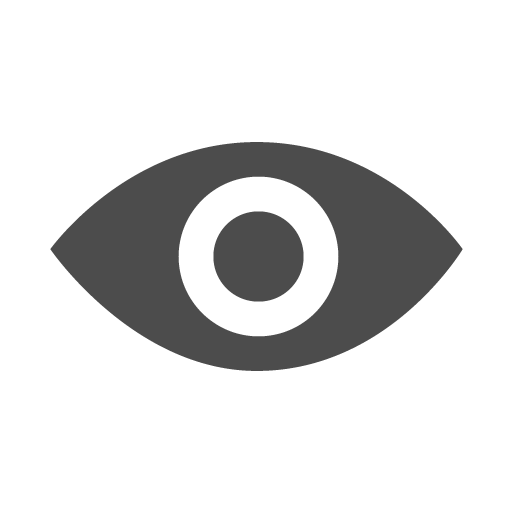
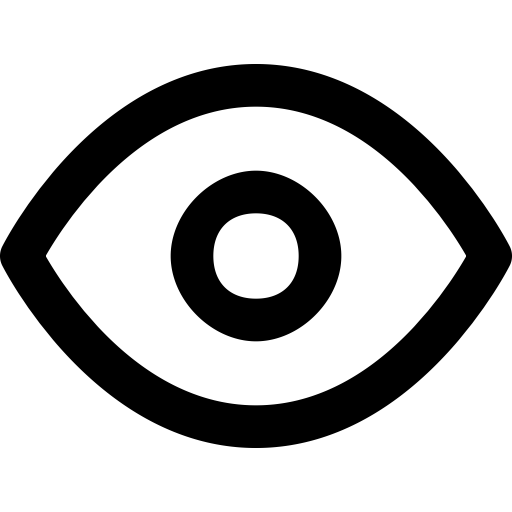
Imagenes de ocultar y mostrar el password e inicio popup delete

diff --git a/src/controllers/posts.controller.js b/src/controllers/posts.controller.js
@@ -3,6 +3,7 @@ import collectionPost from "../views/postcollection.html";
 import { auth, database, timeStamp, arrayUnionFunction, arrayRemoveFunction } from "../init-firebase.js";
 import heartlike from "../img/heartlike.png";
 import heart from "../img/heart.png";
+import { pages } from "./pages.controller.js"
 
 export default () => {
 
@@ -14,6 +15,9 @@ export default () => {
     const username = divElement.querySelector("#userSessionName");
     console.log(username);
     username.textContent = localStorage.getItem("username").toString();
+
+
+    divElement.appendChild(pages.popupdelete());
 
     const logout = divElement.querySelector("#btnLogout");
     logout.addEventListener("click", (event) => {
@@ -28,9 +32,13 @@ export default () => {
     postForm.addEventListener("submit", async event => {
         event.preventDefault();
         const postText = postForm["textPost"];
-        await createPost(postText.value);
-        postForm.reset();
-        postForm.focus();
+        if (postText.value === "") {
+            alert("Your post is empty");
+        } else {
+            await createPost(postText.value);
+            postForm.reset();
+            postForm.focus();
+        }
     });
 
 
@@ -72,6 +80,8 @@ const printPosts = (listPost, querySnapshot) => {
         const deleteButtons = divCollection.querySelectorAll(".deletePost");
         const deleteButtonId = divCollection.querySelector("#deletePostButton")
         const likebtn = divCollection.querySelector("#like");
+        const idPopUp = document.querySelector("#deleteIdPopup");
+        console.log(idPopUp);
         if (dataElement.usersLike.indexOf(userSessionNow) === -1) {
             likebtn.src = heart;
         } else {
@@ -81,6 +91,7 @@ const printPosts = (listPost, querySnapshot) => {
             deleteButtonId.style.display = "block";
             deleteButtons.forEach(button => {
                 button.addEventListener("click", async(event) => {
+                    idPopUp.classList.add("active");
                     await deletePost(event.target.parentNode.parentNode.parentNode.id);
                 })
             })

diff --git a/src/main.css b/src/main.css
@@ -296,8 +296,10 @@
             }
             
             #eyePassword {
-                width: 30px;
+                width: 15px;
                 opacity: 50%;
+                height: 20px;
+                align-self: center;
             }
             
             .deletePost {
@@ -401,6 +403,38 @@
             
             #usernamePost {
                 font-weight: 600;
+            }
+            
+            .divViewPopUpDelete {
+                background: rgba(0, 0, 0, 0.3);
+                position: fixed;
+                top: 0;
+                bottom: 0;
+                left: 0;
+                right: 0;
+                display: flex;
+                align-items: center;
+                justify-content: center;
+                visibility: hidden;
+            }
+            
+            .divViewPopUpDelete.active {
+                visibility: visible;
+            }
+            
+            .deleteAlert {
+                background: white;
+                box-shadow: 0px 0px 5px 0px rgba(0, 0, 0, 0.3);
+                border-radius: 5px;
+                font-family: 'Lora', Serif;
+                padding: 20px;
+                text-align: center;
+                width: 200px;
+            }
+            
+            .deleteAlert.btnCancel {
+                display: block;
+                text-align: right;
             }
             
             @media screen and (min-width:800px) {

diff --git a/src/controllers/login.controller.js b/src/controllers/login.controller.js
@@ -4,6 +4,7 @@ import faceImg from "../img/facebook.png";
 import googleImg from "../img/google.png";
 import arrowBack from "../img/arrow-left.png";
 import eyeLogin from "../img/eyeLogin.png";
+import hideLogin from "../img/hideLogin.png"
 import { pages } from "./pages.controller.js";
 import { auth, firebase } from "../init-firebase.js";
 
@@ -32,7 +33,8 @@ export default () => {
     imgBackBotton.src = arrowBack;
 
     const imgEye = divElement.querySelector("#eyePassword");
-    imgEye.src = eyeLogin;
+    imgEye.src = hideLogin;
+
 
     // Login Event ------------------------------------------------------>
 
@@ -112,7 +114,10 @@ export default () => {
         const idPassword = divElement.querySelector("#password");
         if (idPassword.type === "password") {
             idPassword.type = "text"
+            imgEye.src = eyeLogin;
+
         } else {
+            imgEye.src = hideLogin;
             idPassword.type = "password"
         }
     })

diff --git a/src/controllers/alertdelete.controller.js b/src/controllers/alertdelete.controller.js
@@ -1,0 +1,15 @@
+import viewPopUpDelete from "../views/alertdelete.html";
+
+export default () => {
+    const divElement = document.createElement("div");
+    divElement.classList = "divViewPopUpDelete";
+    divElement.id = "deleteIdPopup";
+    divElement.innerHTML = viewPopUpDelete;
+    const btnCancel = divElement.querySelector("#btnCancel");
+    btnCancel.addEventListener("click", (event) => {
+        event.preventDefault();
+        divElement.classList.remove("active");
+    })
+
+    return divElement;
+}

diff --git a/src/controllers/pages.controller.js b/src/controllers/pages.controller.js
@@ -6,6 +6,7 @@ import Popups from "./popups.controller.js";
 import Posts from "./posts.controller.js";
 import AboutUs from "./aboutus.controller.js"
 import ContactUs from "./contactus.controller.js"
+import PopUpDelete from "./alertdelete.controller.js"
 
 const pages = {
     default: Default,
@@ -15,7 +16,8 @@ const pages = {
     popups: Popups,
     posts: Posts,
     aboutUs: AboutUs,
-    contactUs: ContactUs
+    contactUs: ContactUs,
+    popupdelete: PopUpDelete
 }
 
 export { pages }

diff --git a/src/views/alertdelete.html b/src/views/alertdelete.html
@@ -1,0 +1,6 @@
+<div class="deleteAlert">
+    <h1>Delete Post?</h1>
+    <span>Are you sure you want to delete this post?</span>
+    <button id="btnCancel"> Cancel</button>
+    <button>Delete</button>
+</div>
